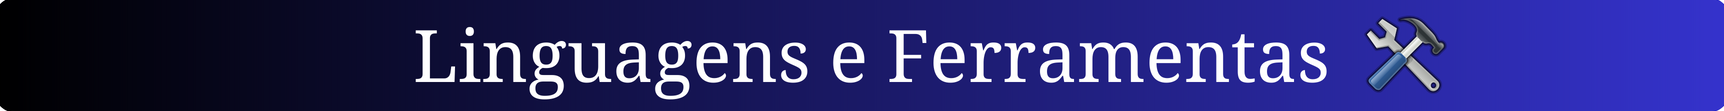
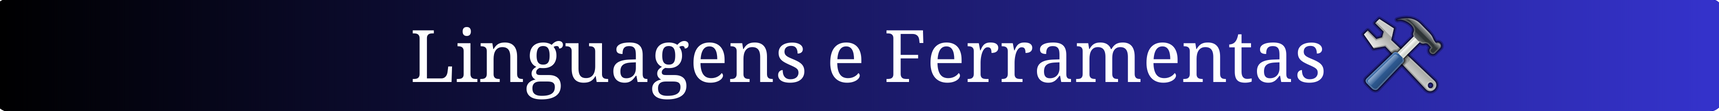
Alterado tamanho da foto

diff --git a/README.md b/README.md
@@ -50,7 +50,7 @@
 <hr>
 
 <div align='center'>
-  <img height='70px' width='100%' src='./Imagens/Ferramentas.png' alt='Imagem da seção de linguagens e ferramentas'>
+  <img height='80px' width='100%' src='./Imagens/Ferramentas.png' alt='Imagem da seção de linguagens e ferramentas'>
 </div>
 <img align="left"  width='250px' alt='Gif do Jim Carrey' src='./Imagens/Gif-Jim-Carrey.gif'>
 
